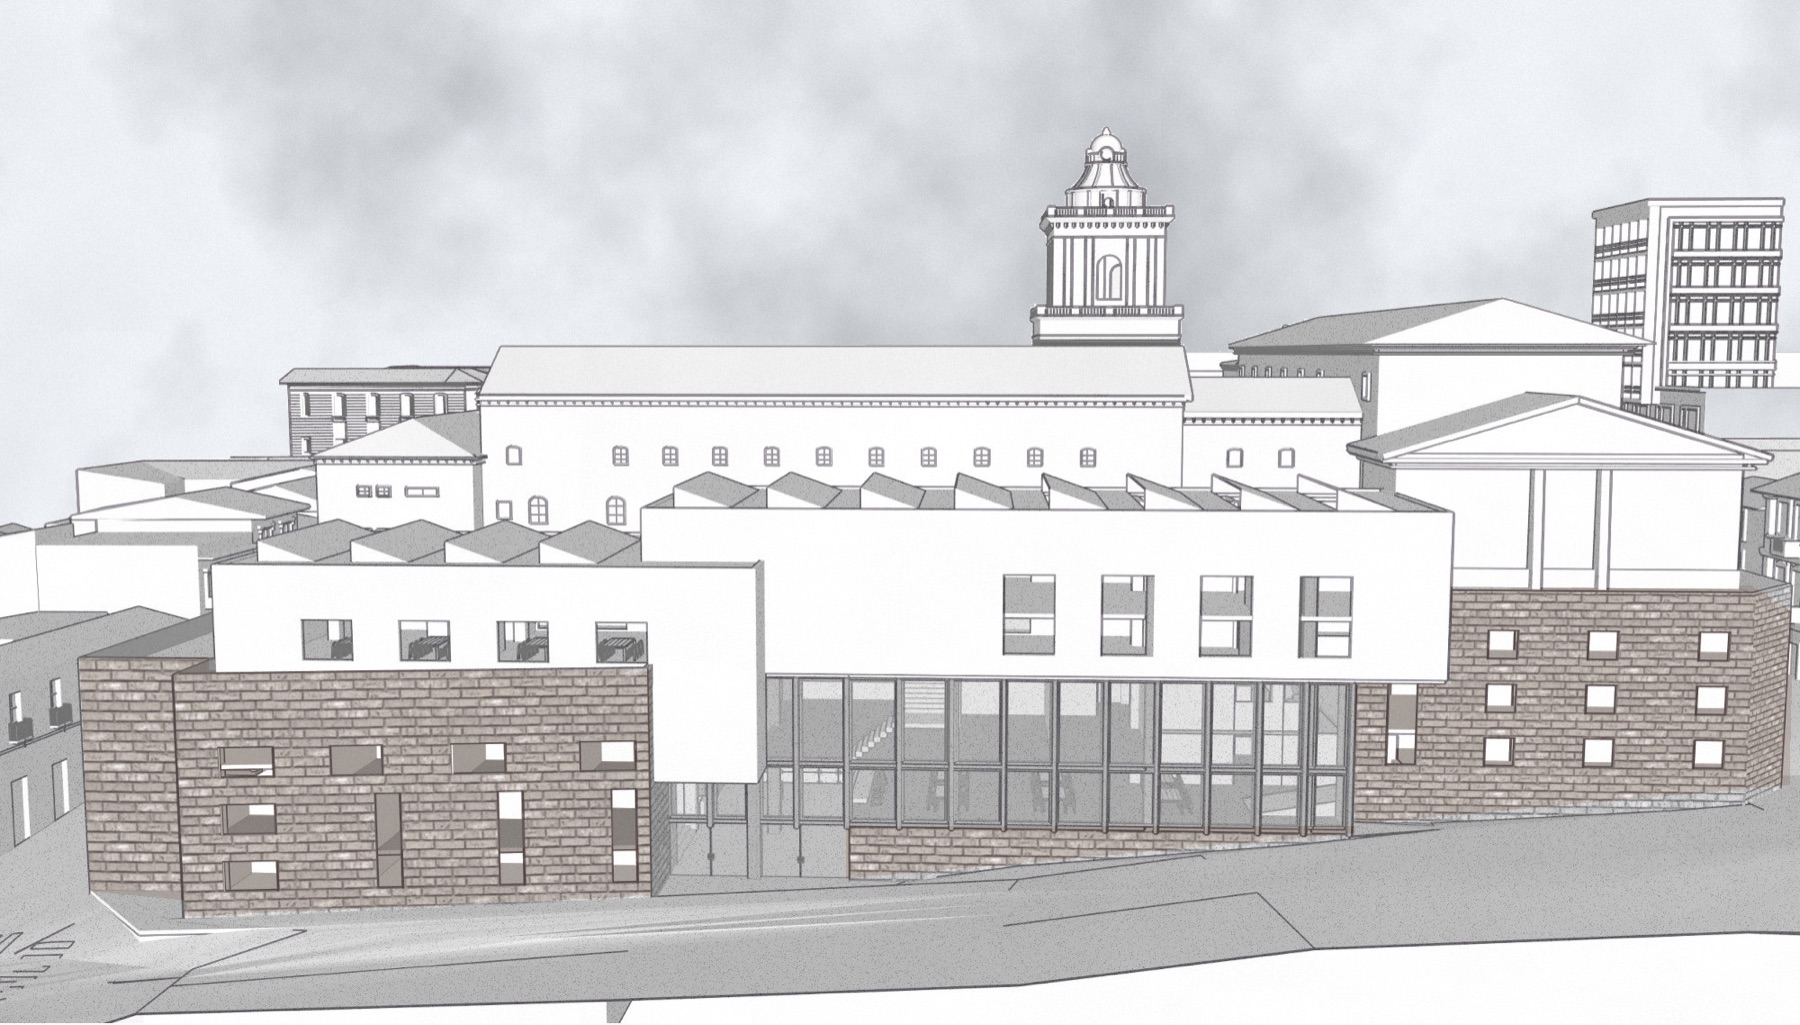
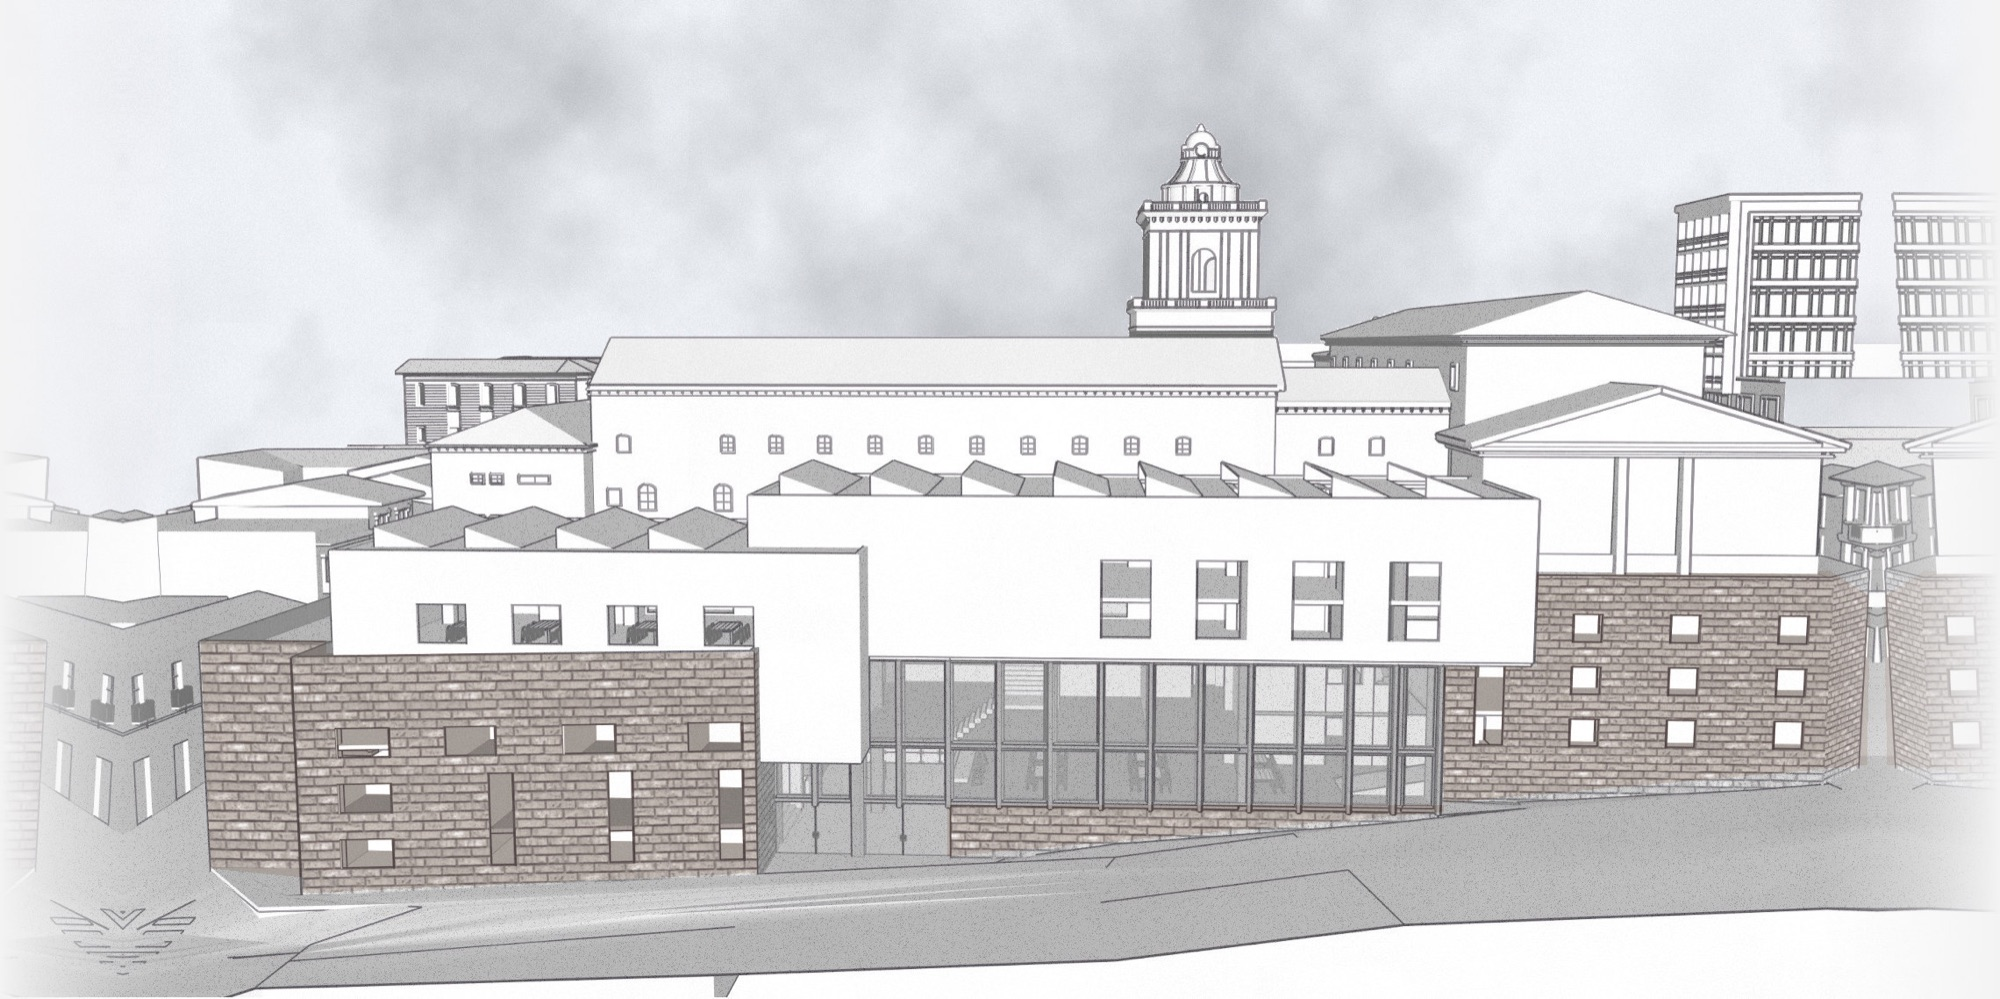
Inicio: encuadre más alejado de la Facultad (edificio completo)

diff --git a/src/App.jsx b/src/App.jsx
@@ -43,7 +43,7 @@ const franjas = [
   { slug: 'galeria-talleres', src: '/img/disenos/galeria-talleres-inicio.jpg', pos: '50% 45%' },
   { slug: 'edificio-nexo', src: '/img/disenos/edificio-nexo-inicio.jpg', pos: '50% 35%' },
   // Vista del conjunto pasada a ilustración (ilustra2.mjs: cielo de acuarela, líneas grises suaves, ladrillo cálido, grano).
-  { slug: 'facultad-arquitectura', src: '/img/disenos/facultad-arquitectura-inicio.jpg', pos: '50% 66%' },
+  { slug: 'facultad-arquitectura', src: '/img/disenos/facultad-arquitectura-inicio.jpg', pos: '50% 82%' },
   { slug: 'biblioteca', src: '/img/biblioteca/02.jpg', pos: '50% 10%' },
   { slug: 'centro-comunitario', src: '/img/centro-comunitario/02.jpg', pos: '50% 68%' },
 ]

diff --git a/CLAUDE.md b/CLAUDE.md
@@ -79,7 +79,7 @@ Sitio en vivo: Vercel, desplegado automáticamente desde `main` de https://githu
 - **Inicio** = franjas horizontales a todo el ancho, **una por proyecto** (lista `franjas` en App.jsx; `pos` = parte visible de la foto). Alto: computadora `clamp(260px, 25vw, 440px)` (≈360 px a 1440 px; Joaquín las veía muy cortadas con 230), celular 230 px. B/N; al pasar el mouse, color + nombre + rol ("Jefe de obra", "Diseño y dirección de obra", "Diseño"); en celular el nombre se ve siempre con sombra inferior. Se probó un mosaico de tamaños distintos y **Joaquín prefirió las franjas horizontales**.
 - **Orden (pedido por Joaquín)**: Remodelación YM, Casa JC, FR, AJ, JV, LT, BR, Colegio Mine, Mundaneum Beirut, Galería-Talleres, Edificio Nexo, Facultad, Biblioteca, Centro Comunitario. Desde la sesión 4 el menú, las grillas y "proyecto anterior / siguiente" siguen este mismo orden (es el orden de las listas en `proyectos.js`).
 - Franja de **Edificio Nexo** (2026-11-17): `disenos/edificio-nexo-inicio.jpg` (copia solo para el inicio; la portada de la grilla sigue con `edificio-nexo.jpg`): la **celosía vertical en tono madera muy claro** al pasar el mouse y el **césped menos intenso**, con `~/Desktop/pdf-tools/nexo_madera.mjs in out '{"poligono":[[412,60],[512,60],[512,540],[408,540]],"madera":"#c4ac92","fuerza":0.6,"cesped":0.55}'` (tiñe el polígono conservando luces y sombras, salvo las losas negras que lo cruzan y el fondo blanco).
-- Franja de la **Facultad** (2026-11-17, Joaquín la veía "como un dibujo" y la quería con el estilo de Mundaneum/Centro Comunitario): `disenos/facultad-arquitectura-inicio.jpg` = vista del conjunto (`facultad-arquitectura/01.jpg`) pasada a ilustración con `~/Desktop/pdf-tools/ilustra2.mjs` (cielo de acuarela, contornos negros → líneas grises finas por cierre morfológico, tonos aclarados, ladrillo cálido #b8906c, grano y punteado de papel; semillas `60,440;1990,470` para el suelo blanco de SketchUp; `linea` 0.3, `ladrillo` #b4a194 (piedra grisácea), `fuerzaLadrillo` 0.5 (probados: #c49c80/0.5 "demasiado claro", #b07a5a/0.8 "demasiado llamativo", #bc9378/0.55 "aún muy intenso, más gris"), con el ladrillo marcado a mano en `poligonos` [[[88,730],[232,730],[232,745],[724,745],[724,995],[205,1018],[205,1000],[100,990]],[[940,918],[1506,918],[1506,925],[940,976]],[[1612,655],[1945,650],[1992,680],[1988,872],[1506,915],[1506,760],[1612,760]]] sobre la imagen de 2000 px; cielo con un celeste muy liviano `cielo` [-6,-2,3] y sin la línea del horizonte de SketchUp (arriba a la izquierda); se probó la perfilería de ventanas en negro (`negros`) y Joaquín no la quiso), 1800 px, `pos` 50% 66% (se probó 35 % con más cielo y Joaquín dijo que no se veía el proyecto: el encuadre debe mostrar el edificio). **Color de la piedra muy sutil** (pedido de Joaquín): **en reposo, blanco y negro como las demás** (Joaquín no quiere color sin el mouse); al pasar el mouse, el color de la piedra, liviano. (Existe el campo opcional `gris` en `franjas` → variable CSS `--gris`, hoy sin uso.) Se descartó Higgsfield: Joaquín pidió hacerla sin servicios externos. Franja de **Galería-Talleres** = sección 2 (`disenos/galeria-talleres-inicio.jpg`, recorte de la lámina `[.662,.79,.883,.912]`, `pos` 50% 45%), pedido de Joaquín el 2026-11-16; solo en el inicio: la galería y la portada de la grilla de Diseños siguen con la maqueta. Portada de **Mundaneum** = render de la fachada de arcos con la mezquita y las ruinas romanas (recorte de `mundaneum-beirut/01.jpg`, 74,206,1856×846 → 1600×729).
+- Franja de la **Facultad** (2026-11-17, Joaquín la veía "como un dibujo" y la quería con el estilo de Mundaneum/Centro Comunitario): `disenos/facultad-arquitectura-inicio.jpg` = vista del conjunto (`facultad-arquitectura/01.jpg`) pasada a ilustración con `~/Desktop/pdf-tools/ilustra2.mjs` (cielo de acuarela, contornos negros → líneas grises finas por cierre morfológico, tonos aclarados, ladrillo cálido #b8906c, grano y punteado de papel; semillas `60,440;1990,470` para el suelo blanco de SketchUp; `linea` 0.3, `ladrillo` #b4a194 (piedra grisácea), `fuerzaLadrillo` 0.5 (probados: #c49c80/0.5 "demasiado claro", #b07a5a/0.8 "demasiado llamativo", #bc9378/0.55 "aún muy intenso, más gris"), con el ladrillo marcado a mano en `poligonos` [[[88,730],[232,730],[232,745],[724,745],[724,995],[205,1018],[205,1000],[100,990]],[[940,918],[1506,918],[1506,925],[940,976]],[[1612,655],[1945,650],[1992,680],[1988,872],[1506,915],[1506,760],[1612,760]]] sobre la imagen de 2000 px; cielo con un celeste muy liviano `cielo` [-6,-2,3] y sin la línea del horizonte de SketchUp (arriba a la izquierda); se probó la perfilería de ventanas en negro (`negros`) y Joaquín no la quiso), después, para alejar el encuadre ("zoom out", pedido de Joaquín), ensanchada 140 px por lado con `~/Desktop/pdf-tools/ensancha.mjs in out 140` (reflejo del borde que se funde con papel gris claro) → 2000 px de ancho, `pos` 50% 82%: se ve el edificio completo hasta la base. (Se probó `pos` 35 % con más cielo y Joaquín dijo que no se veía el proyecto: el encuadre debe mostrar el edificio.) **Color de la piedra muy sutil** (pedido de Joaquín): **en reposo, blanco y negro como las demás** (Joaquín no quiere color sin el mouse); al pasar el mouse, el color de la piedra, liviano. (Existe el campo opcional `gris` en `franjas` → variable CSS `--gris`, hoy sin uso.) Se descartó Higgsfield: Joaquín pidió hacerla sin servicios externos. Franja de **Galería-Talleres** = sección 2 (`disenos/galeria-talleres-inicio.jpg`, recorte de la lámina `[.662,.79,.883,.912]`, `pos` 50% 45%), pedido de Joaquín el 2026-11-16; solo en el inicio: la galería y la portada de la grilla de Diseños siguen con la maqueta. Portada de **Mundaneum** = render de la fachada de arcos con la mezquita y las ruinas romanas (recorte de `mundaneum-beirut/01.jpg`, 74,206,1856×846 → 1600×729).
 - **Rutas**: `#/` · `#/proyectos` y `#/disenos` (grilla de portadas) · `#/p/<slug>` = **todas las fotos del proyecto en grilla de 3 columnas** (lo que abre cada franja y el menú; B/N, color y descripción al pasar) · `#/p/<slug>/<n>` = al hacer clic en una foto: foto n grande (clic → visor a pantalla completa), ficha "campo > valor" a la derecha, miniaturas abajo, resumen debajo; la dirección se actualiza al cambiar de foto; al pie: ‹ proyecto anterior · TODAS LAS FOTOS · siguiente › · `#/sobre-mi` · `#/contacto`.
 - **Fichas**: cada dato en su línea, etiqueta gris con dos puntos arriba ("Tipo:", "Ubicación:", "Año:", "Diseño y dirección de obra:") y valor blanco debajo; grupos separados por líneas finas (`<dl class="ficha-grupo">`; pedido de Joaquín, antes era "campo > valor" con "-"). Datos: tipo, ubicación, año; obras: "Diseño: Diez + Muller · Construcción: Arq. Buró · Dirección de obra: Joaquín Andrade" (antes "jefe de obra"; Joaquín pidió "Dirección de obra" en los proyectos el 2026-11-16; también es el rol en las franjas del inicio); YM: tipo "Remodelación", ubicación "Oyambarillo, Quito, Ecuador", 2025, "diseño y dirección de obra > Joaquín Andrade" + descripción de 3 párrafos escrita por Joaquín (no reescribirla; `resumen` puede ser un texto o una lista de párrafos); diseños: "diseño > Joaquín Andrade", **excepto el Centro Comunitario** (`coautoria: true`, sin crédito de diseño).
 - El **comparador obra/terminado** (Casa AJ) está en la página `#/p/casa-aj/<n>`, debajo del resumen.
